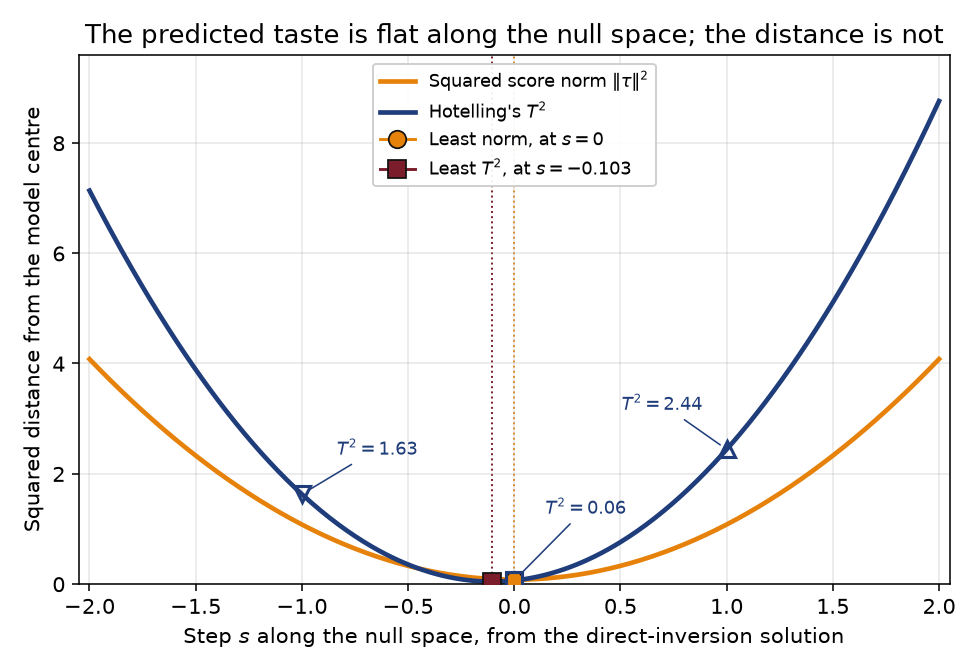
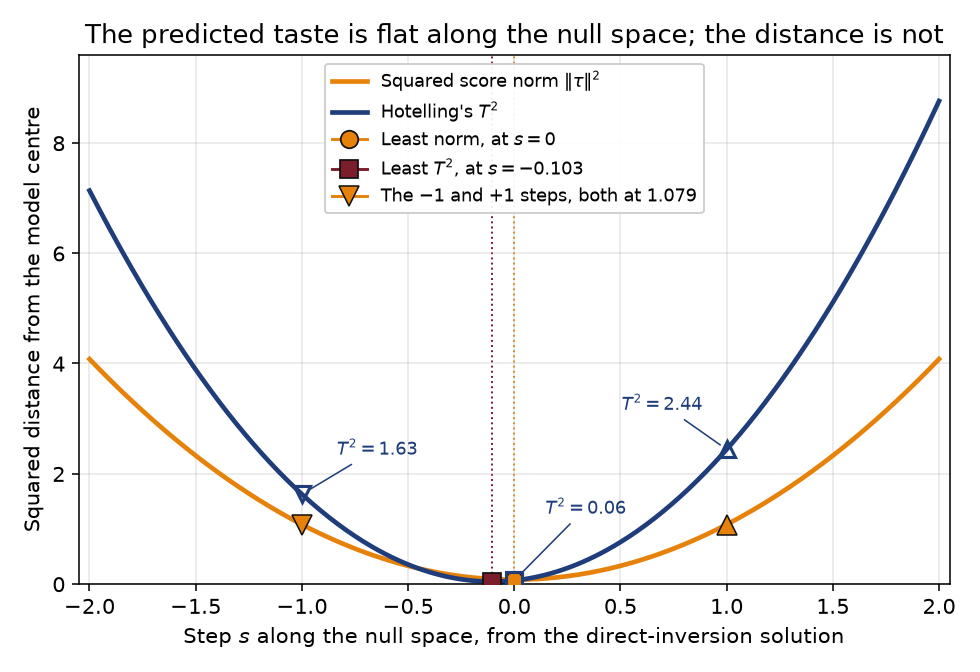
Mark the -1 and +1 steps on the squared-norm curve
The figure showed the two curves and where each is least, but nothing tied
it to the two designs tabulated in the chapter and drawn as orange
triangles in both score plots. Add the same filled triangles on the
squared-norm curve, where they sit together at 1.079, which is the
Pythagoras result the chapter states.

They are named in the legend rather than annotated on the canvas: two
placements for a floating label collided, first with the T2 = 2.44 label
and then with the axis ticks, and the value belongs to both markers
equally so it reads better stated once.

diff --git a/pls/pls-null-space-distance.py b/pls/pls-null-space-distance.py
@@ -90,6 +90,15 @@ def build_figure(out_dir: Path) -> None:
     ax.axvline(0, color=ORANGE, lw=1.0, ls=":", zorder=1)
     ax.axvline(s_t2, color=MAROON, lw=1.0, ls=":", zorder=1)
 
+    # The -1 and +1 steps marked on the squared-norm curve as well, using the same
+    # filled orange triangles as the two companion score plots, so the same pair of
+    # designs can be recognised across all three figures.
+    both = float(((tau + g) ** 2).sum())
+    for step, marker in ((-1.0, "v"), (1.0, "^")):
+        ax.plot([step], [float(((tau + step * g) ** 2).sum())], marker=marker, ms=10,
+                color=ORANGE, mec=BLACK, mew=0.8, zorder=7,
+                label=(f"The $-1$ and $+1$ steps, both at {both:.3f}" if step < 0 else None))
+
     # The three rows tabulated in the chapter, labelled clear of the curve and of
     # the two minimum markers, which sit close together near the origin.
     offsets = {-1.0: (18, 20), 0.0: (16, 34), 1.0: (-54, 20)}
